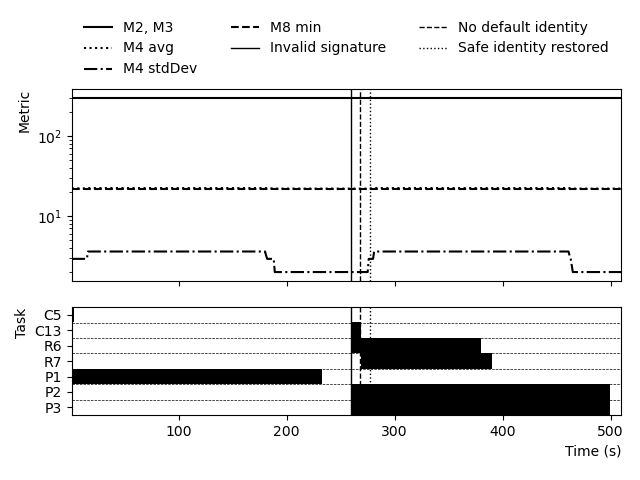
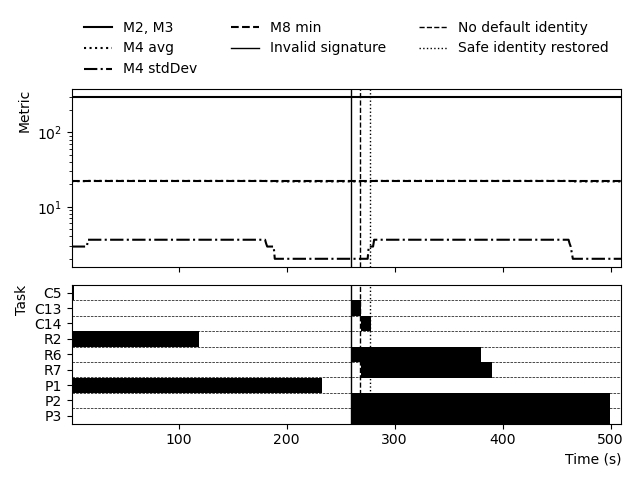
Add missing constriaints to plot

diff --git a/script/missconfiguration_plot.py b/script/missconfiguration_plot.py
@@ -9,8 +9,8 @@ from matplotlib.colors import ListedColormap
 INVALID_SIGNATURE, NO_DEFAULT_IDENTITY, SAFE_IDENTITY_RESTORED, LOG_FILE = 260, 268, 277, abspath(
     f"{dirname(__file__)}/../logs/missconfiguration_logs.json")
 METRICS = [f"M{i + 1}" for i in range(12)]
-TASKS = ["C5", "C13"] \
-    + ["R6", "R7"] \
+TASKS = ["C5", "C13", "C14"] \
+    + ["R2", "R6", "R7"] \
     + [f"P{i+1}"for i in range(3)]
 
 
